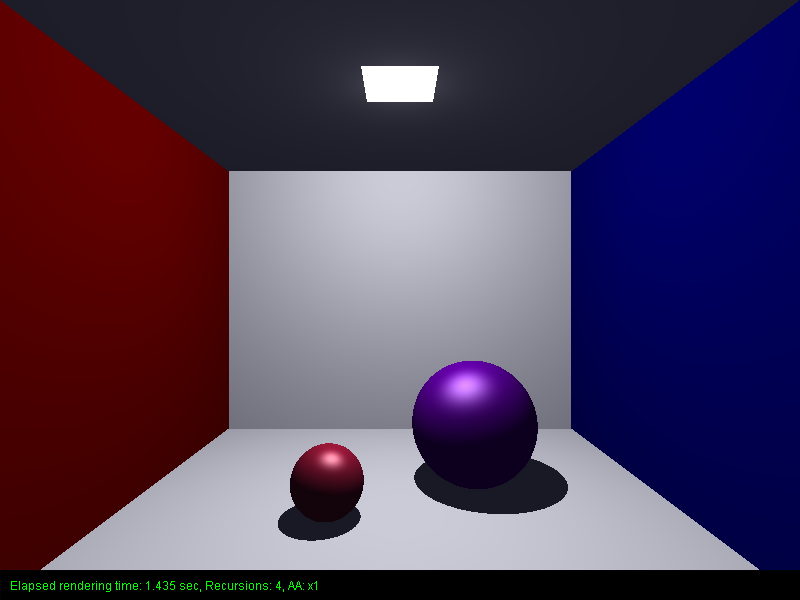
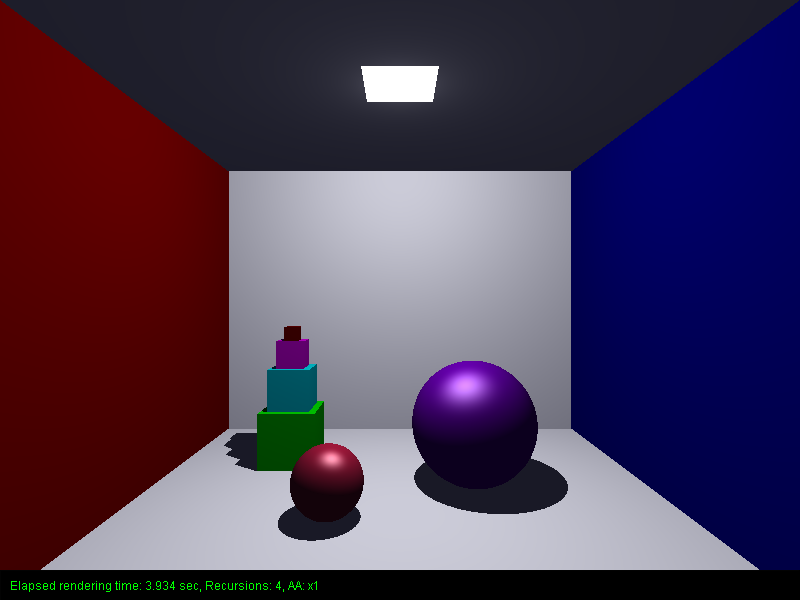
non performance killer cube code from main

Changed region(s): [[0.2812, 0.54, 0.4062, 0.81], [0.1875, 0.96, 0.2188, 0.99]]

diff --git a/VCG_Raytracer/src/scene/shape/Cube.java b/VCG_Raytracer/src/scene/shape/Cube.java
@@ -6,72 +6,45 @@ import utils.algebra.Vec3;
 
 public class Cube extends Square{
 
-    private Square test;
+    
+    private Square[] cubeSides;
+
     public Cube(float _size, Vec3 pos, Material material) {
         super(_size, pos, new Vec3(1,0,0), material);
+        //save all sides of our cube in an array
+        cubeSides = new Square[6];
+        //top, bot
+        cubeSides[0] = new Square(_size, new Vec3(pos.x, pos.y + size/2, pos.z), new Vec3(0,1,0), material);
+        cubeSides[1] = new Square(_size, new Vec3(pos.x, pos.y - size/2, pos.z), new Vec3(0,-1,0), material);
+        //right, left
+        cubeSides[2] = new Square(_size, new Vec3(pos.x + size/2, pos.y, pos.z), new Vec3(1,0,0), material);
+        cubeSides[3] = new Square(_size, new Vec3(pos.x - size/2, pos.y, pos.z), new Vec3(-1,0,0), material);
+        //front, back
+        cubeSides[4] = new Square(_size, new Vec3(pos.x, pos.y, pos.z + size/2), new Vec3(0,0,1), material);
+        cubeSides[5] = new Square(_size, new Vec3(pos.x, pos.y, pos.z - size/2), new Vec3(0,0,-1), material);
     }
 
     public Intersection intersect(Ray ray){
-        //listen i know what you'll say, I KNOW this is scuff 
-        //okay yea cant get this perfectly working so for now ill leave it like this
-        //-> basically lighting is scuff
-
         //we need to save the distance of each side of our cube that gets hit and only return the closest hit AND NOT THE FIRST!!!
         Intersection closest = null;
         float closestDistance = Float.MAX_VALUE;
 
-        this.normal = new Vec3(1, 0, 0);
-        test = new Square(this.size, new Vec3(position.x + size/2, position.y, position.z), normal, material);
-        Intersection side1 = test.intersect(ray);
-        if(side1 != null && side1.isHit() && side1.getDistance() < closestDistance) {
-            closest = side1;
-            closestDistance = side1.getDistance();
-        }
+       //moved creation of sides from here to constructor since i was dumb and theres no reason for it to be here(simply didnt want all sides saved back then)
+       //this is pretty much same as prev 6 if's just instead as a for-each since it is just wayyyyy cleaner
+       for (Square side : cubeSides) {
+            Intersection intersection = side.intersect(ray);
 
-        this.normal = new Vec3(-1, 0, 0);
-        test = new Square(this.size, new Vec3(position.x - size/2, position.y, position.z), normal, material);
-        Intersection side2 = test.intersect(ray);
-        if(side2 != null && side2.isHit() && side2.getDistance() < closestDistance) {
-            closest = side2;
-            closestDistance = side2.getDistance();
-        }
+            //if theres been a hit and its closer we overwrite closest
+            if(intersection != null && intersection.isHit() && intersection.getDistance() < closestDistance){
+                closest = intersection;
+                closestDistance = intersection.getDistance();
+            }
+       }
 
-        this.normal = new Vec3(0, 1, 0);
-        test = new Square(this.size, new Vec3(position.x, position.y + size/2, position.z), normal, material);
-        Intersection side3 = test.intersect(ray);
-        if(side3 != null && side3.isHit() && side3.getDistance() < closestDistance) {
-            closest = side3;
-            closestDistance = side3.getDistance();
-        }
-
-        this.normal = new Vec3(0, -1, 0);
-        test = new Square(this.size, new Vec3(position.x, position.y - size/2, position.z), normal, material);
-        Intersection side4 = test.intersect(ray);
-        if(side4 != null && side4.isHit() && side4.getDistance() < closestDistance) {
-            closest = side4;
-            closestDistance = side4.getDistance();
-        }
-
-        this.normal = new Vec3(0, 0, 1);
-        test = new Square(this.size, new Vec3(position.x, position.y, position.z + size/2), normal, material);
-        Intersection side5 = test.intersect(ray);
-        if(side5 != null && side5.isHit() && side5.getDistance() < closestDistance) {
-            closest = side5;
-            closestDistance = side5.getDistance();
-        }
-
-        this.normal = new Vec3(0, 0, -1);
-        test = new Square(this.size, new Vec3(position.x, position.y, position.z - size/2), normal, material);
-        Intersection side6 = test.intersect(ray);
-        if(side6 != null && side6.isHit()&& side6.getDistance() < closestDistance){
-            closest = side6;
-            closestDistance = side6.getDistance();
-        }
 
         if(closest == null)
             return null;
         return closest;
     }
-
     
 }

diff --git a/VCG_Raytracer/src/Main.java b/VCG_Raytracer/src/Main.java
@@ -146,8 +146,6 @@ public class Main {
          // Materials
         Material mat_phong_purple = new Phong(RgbColor.PURPLE, new RgbColor(0.8f, 0.8f, 0.8f), 5);
         Material mat_phong_red = new Phong(RgbColor.ROYAL_RED, new RgbColor(0.8f, 0.8f, 0.8f), 8);
-        Material mat_phong_green = new Phong(RgbColor.GREEN, new RgbColor(0.8f, 0.8f, 0.8f), 8);
-        Material mat_lambert_green = new Lambert(RgbColor.GREEN);
 
         //we made a custom material to have a similiar look for it as in the example picture
         Material mat_lamp = new LambertLamp();
@@ -155,9 +153,8 @@ public class Main {
         // Objects
         renderScene.createSphere(new Vec3(1.2f,1f,-1), 1f, mat_phong_purple);
         renderScene.createSphere(new Vec3(-1f,0.5f,0.1f), 0.5f, mat_phong_red);
-        //as a bonus we made a cube :D -> however not very optimized for now
-        //commented out right now due to current implementation HEAVILY tanking render time
-        //renderScene.createCubeTower(new Vec3(-2f,0.5f,-2f));
+        //as a bonus we made a cube and built a tower out of em :D
+        renderScene.createCubeTower(new Vec3(-2f,0.5f,-2f));
 
 
         //roof  square
